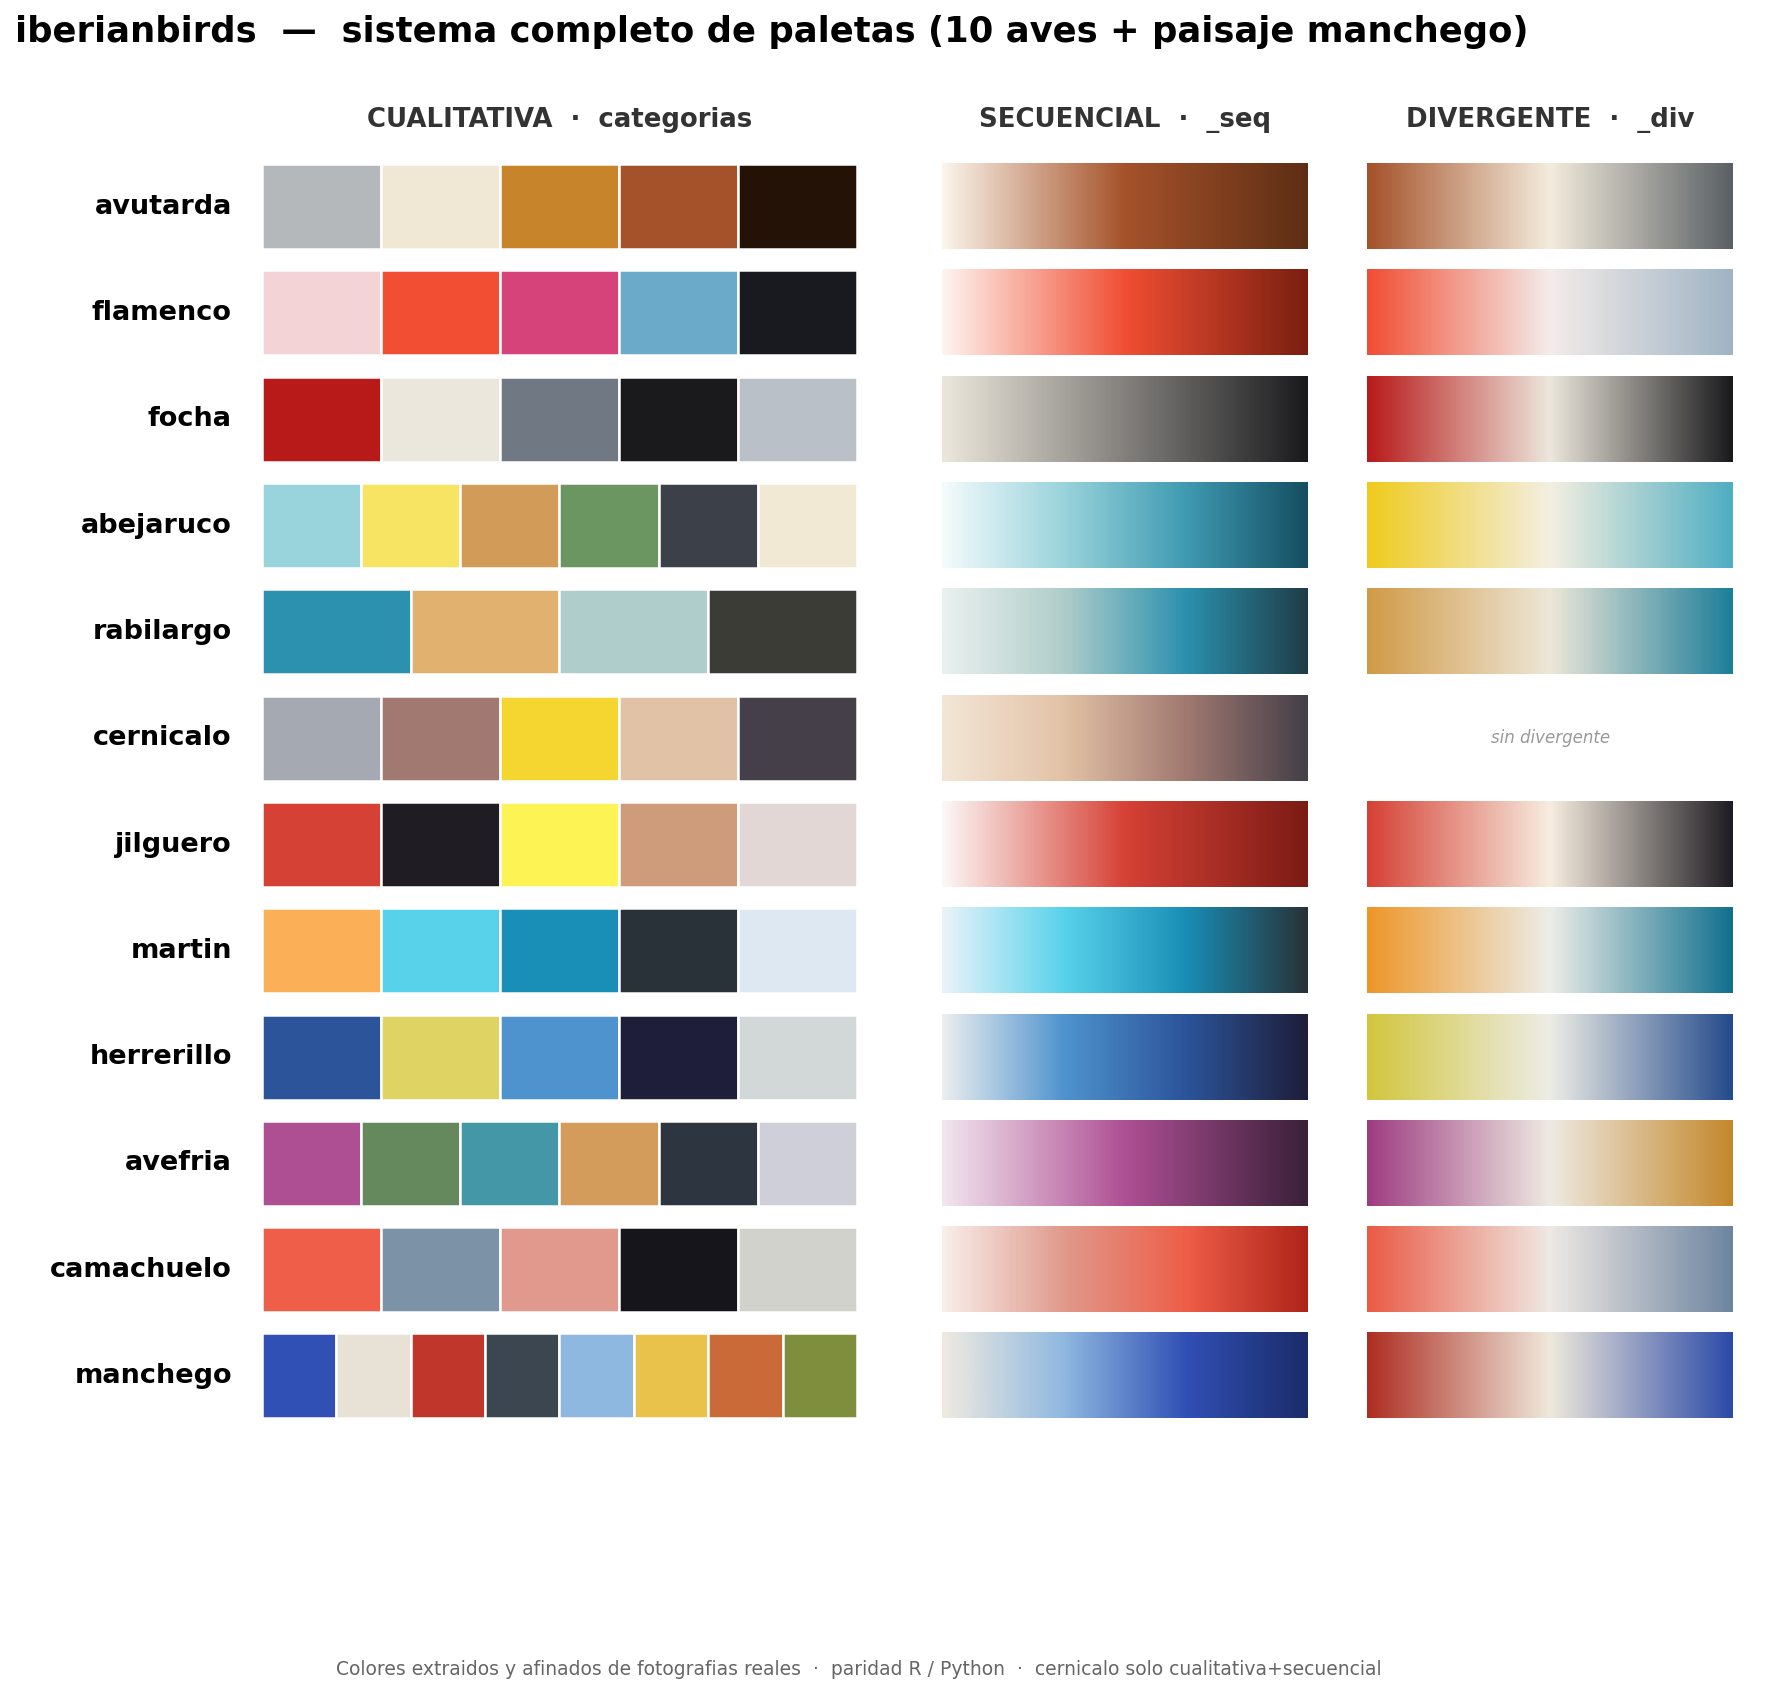
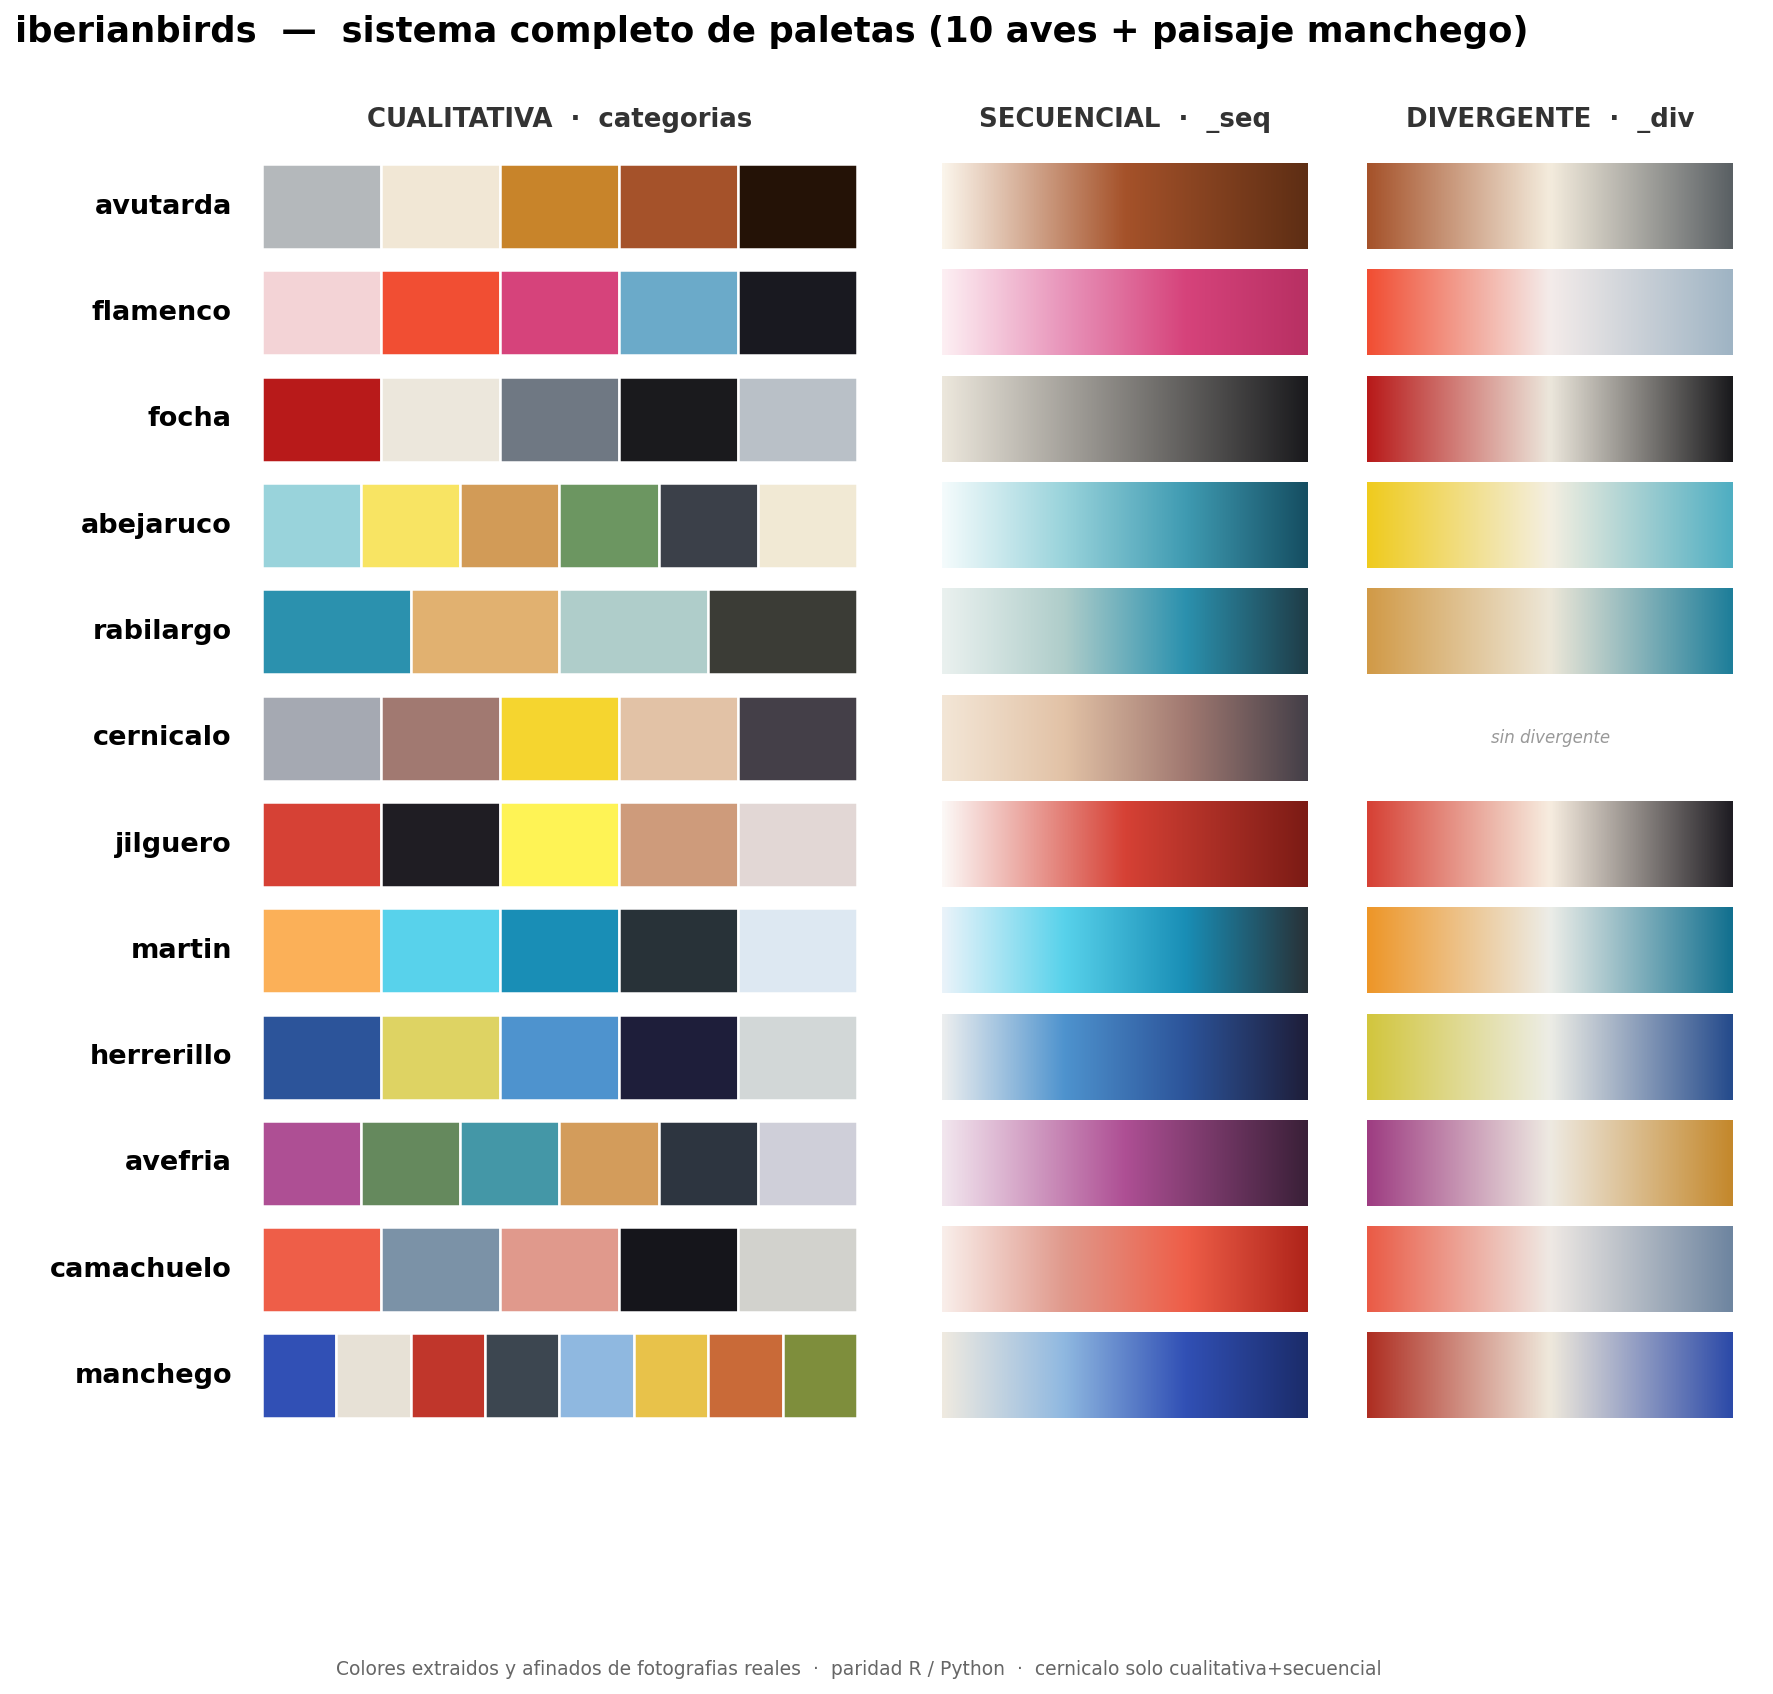
flamenco: secuencial rosa (mezcla suave-intenso) en vez de coral
Mantiene el rosa/magenta unico del sistema, con rango pero sin plum oscuro.

Changed region(s): [[0.5274, 0.1535, 0.7445, 0.2149]]

diff --git a/py-package/src/iberianbirds/_data.py b/py-package/src/iberianbirds/_data.py
@@ -23,7 +23,7 @@ CUALITATIVA = {
 # Paletas SECUENCIALES (magnitud creciente): puntos de un degradado claro->oscuro.
 SECUENCIAL = {
     "avutarda": ["#FBF5EB", "#A5522A", "#5E2E14"],
-    "flamenco": ["#FEF4F0", "#F14E33", "#7A1F10"],
+    "flamenco": ["#FDEFF3", "#E894BA", "#D6437B", "#B83063"],
     "focha": ["#ECE7DC", "#1A1A1D"],
     "abejaruco": ["#F4FBFC", "#99D3DB", "#3F9BB2", "#154E62"],
     "rabilargo": ["#EAF1EF", "#AFCDCA", "#2B91AE", "#1F3D48"],
